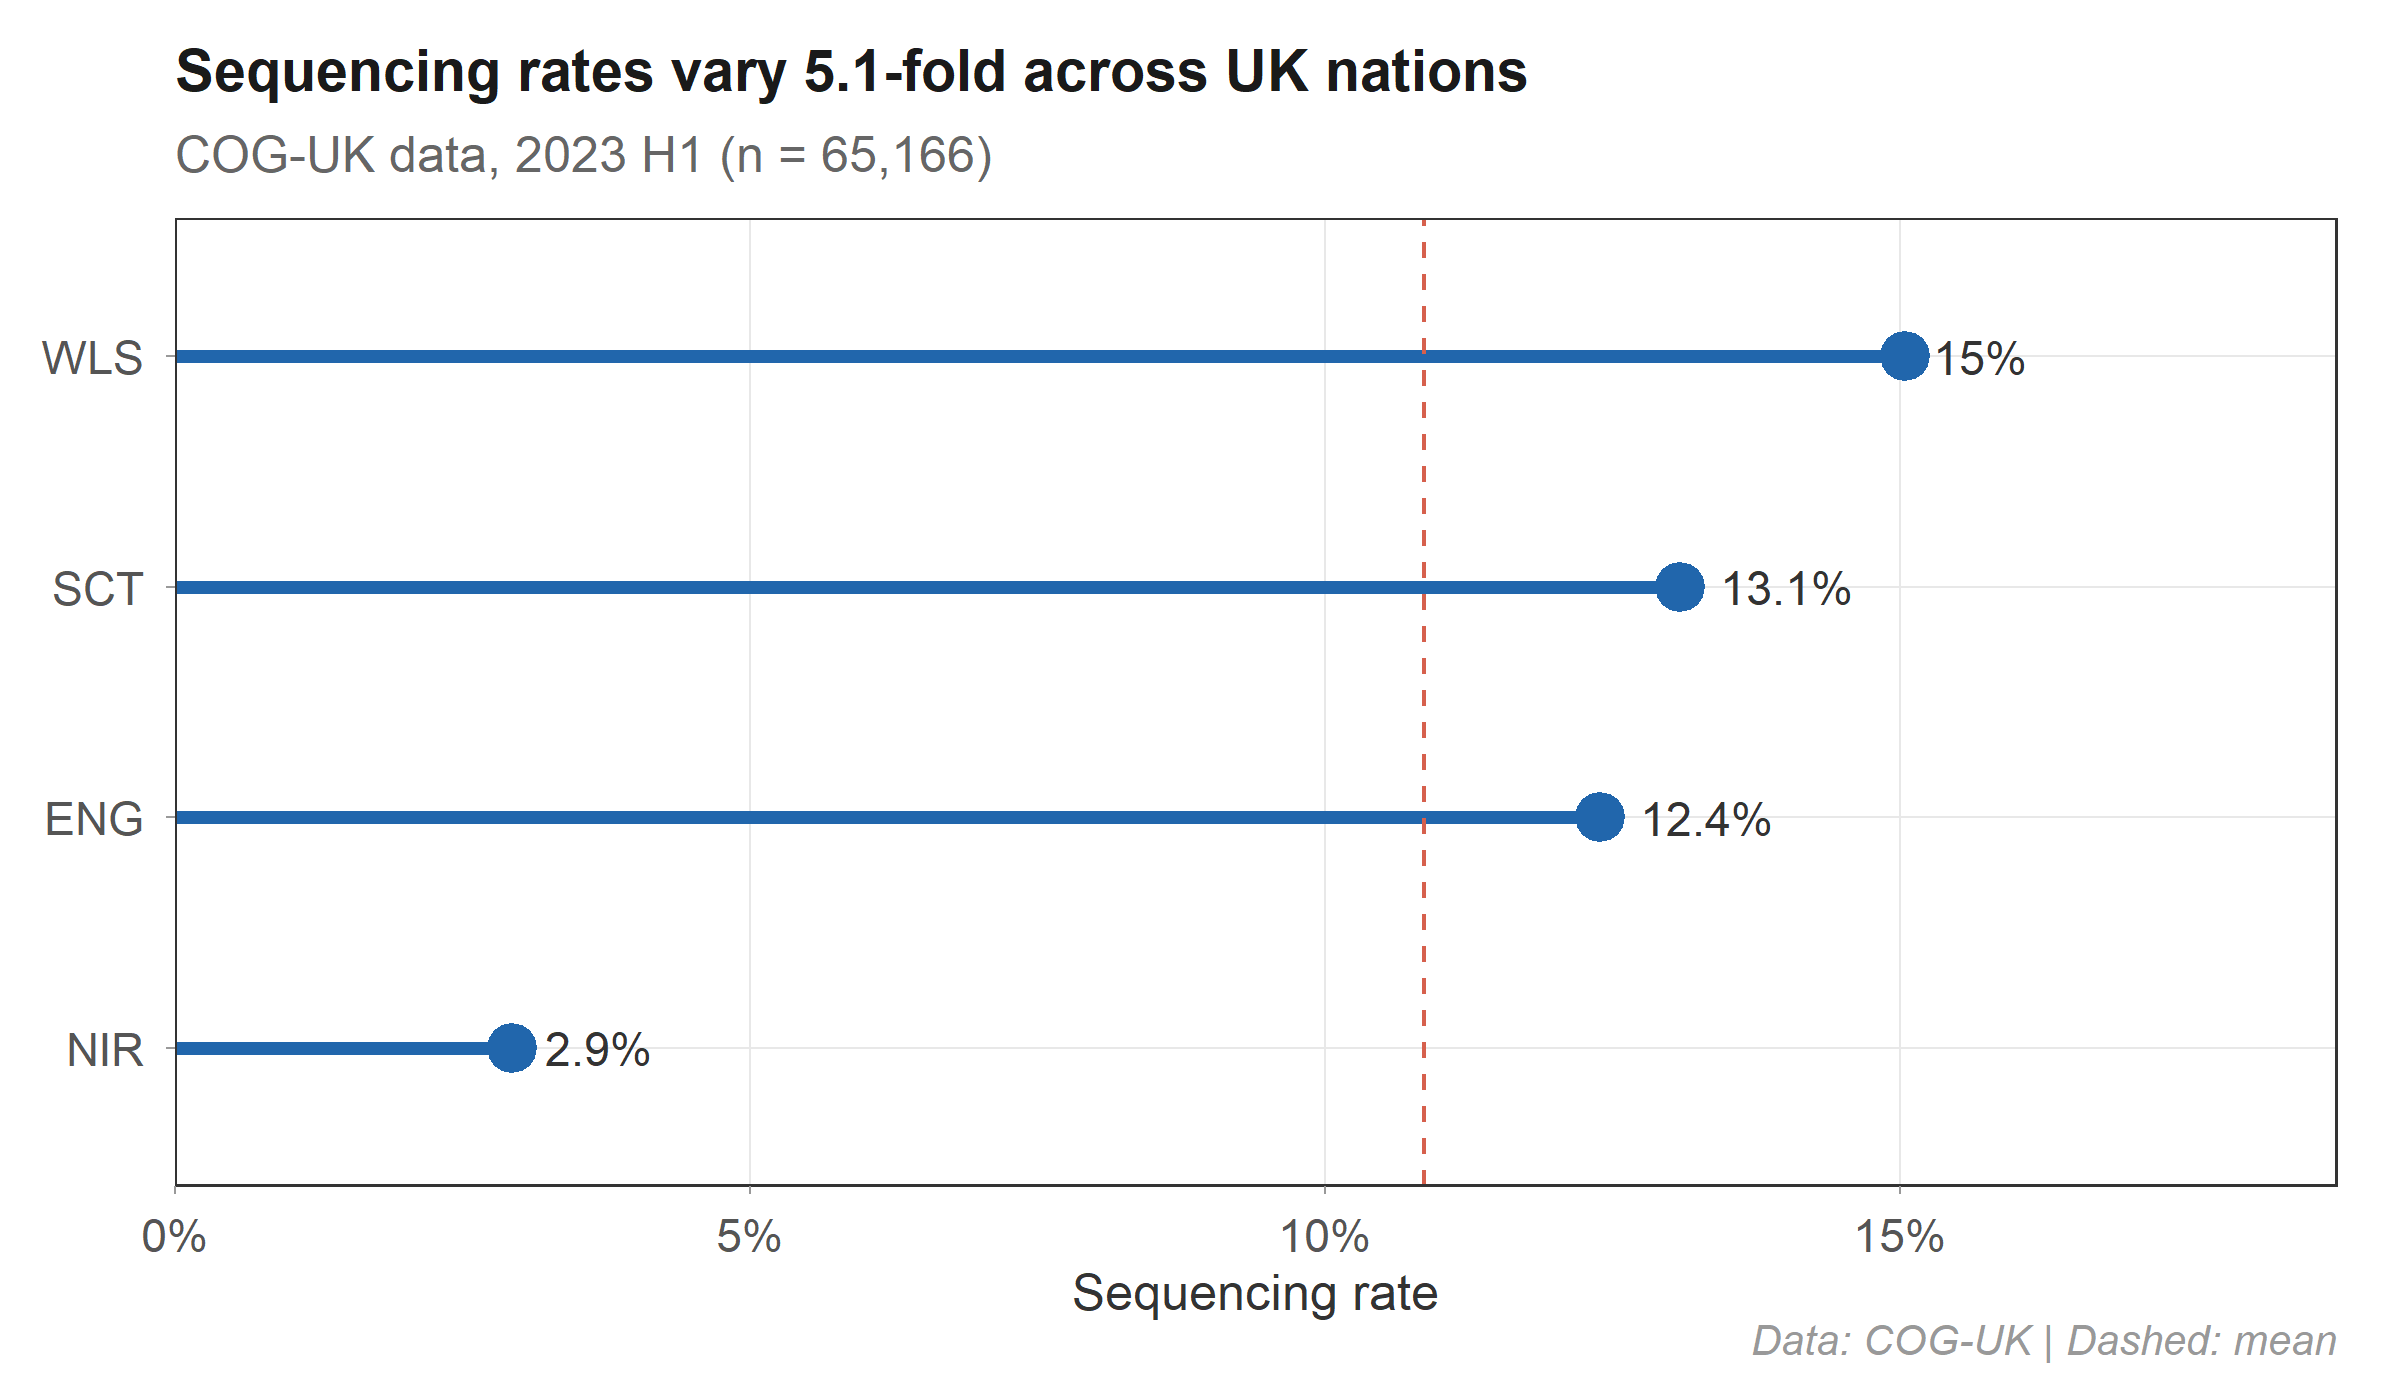
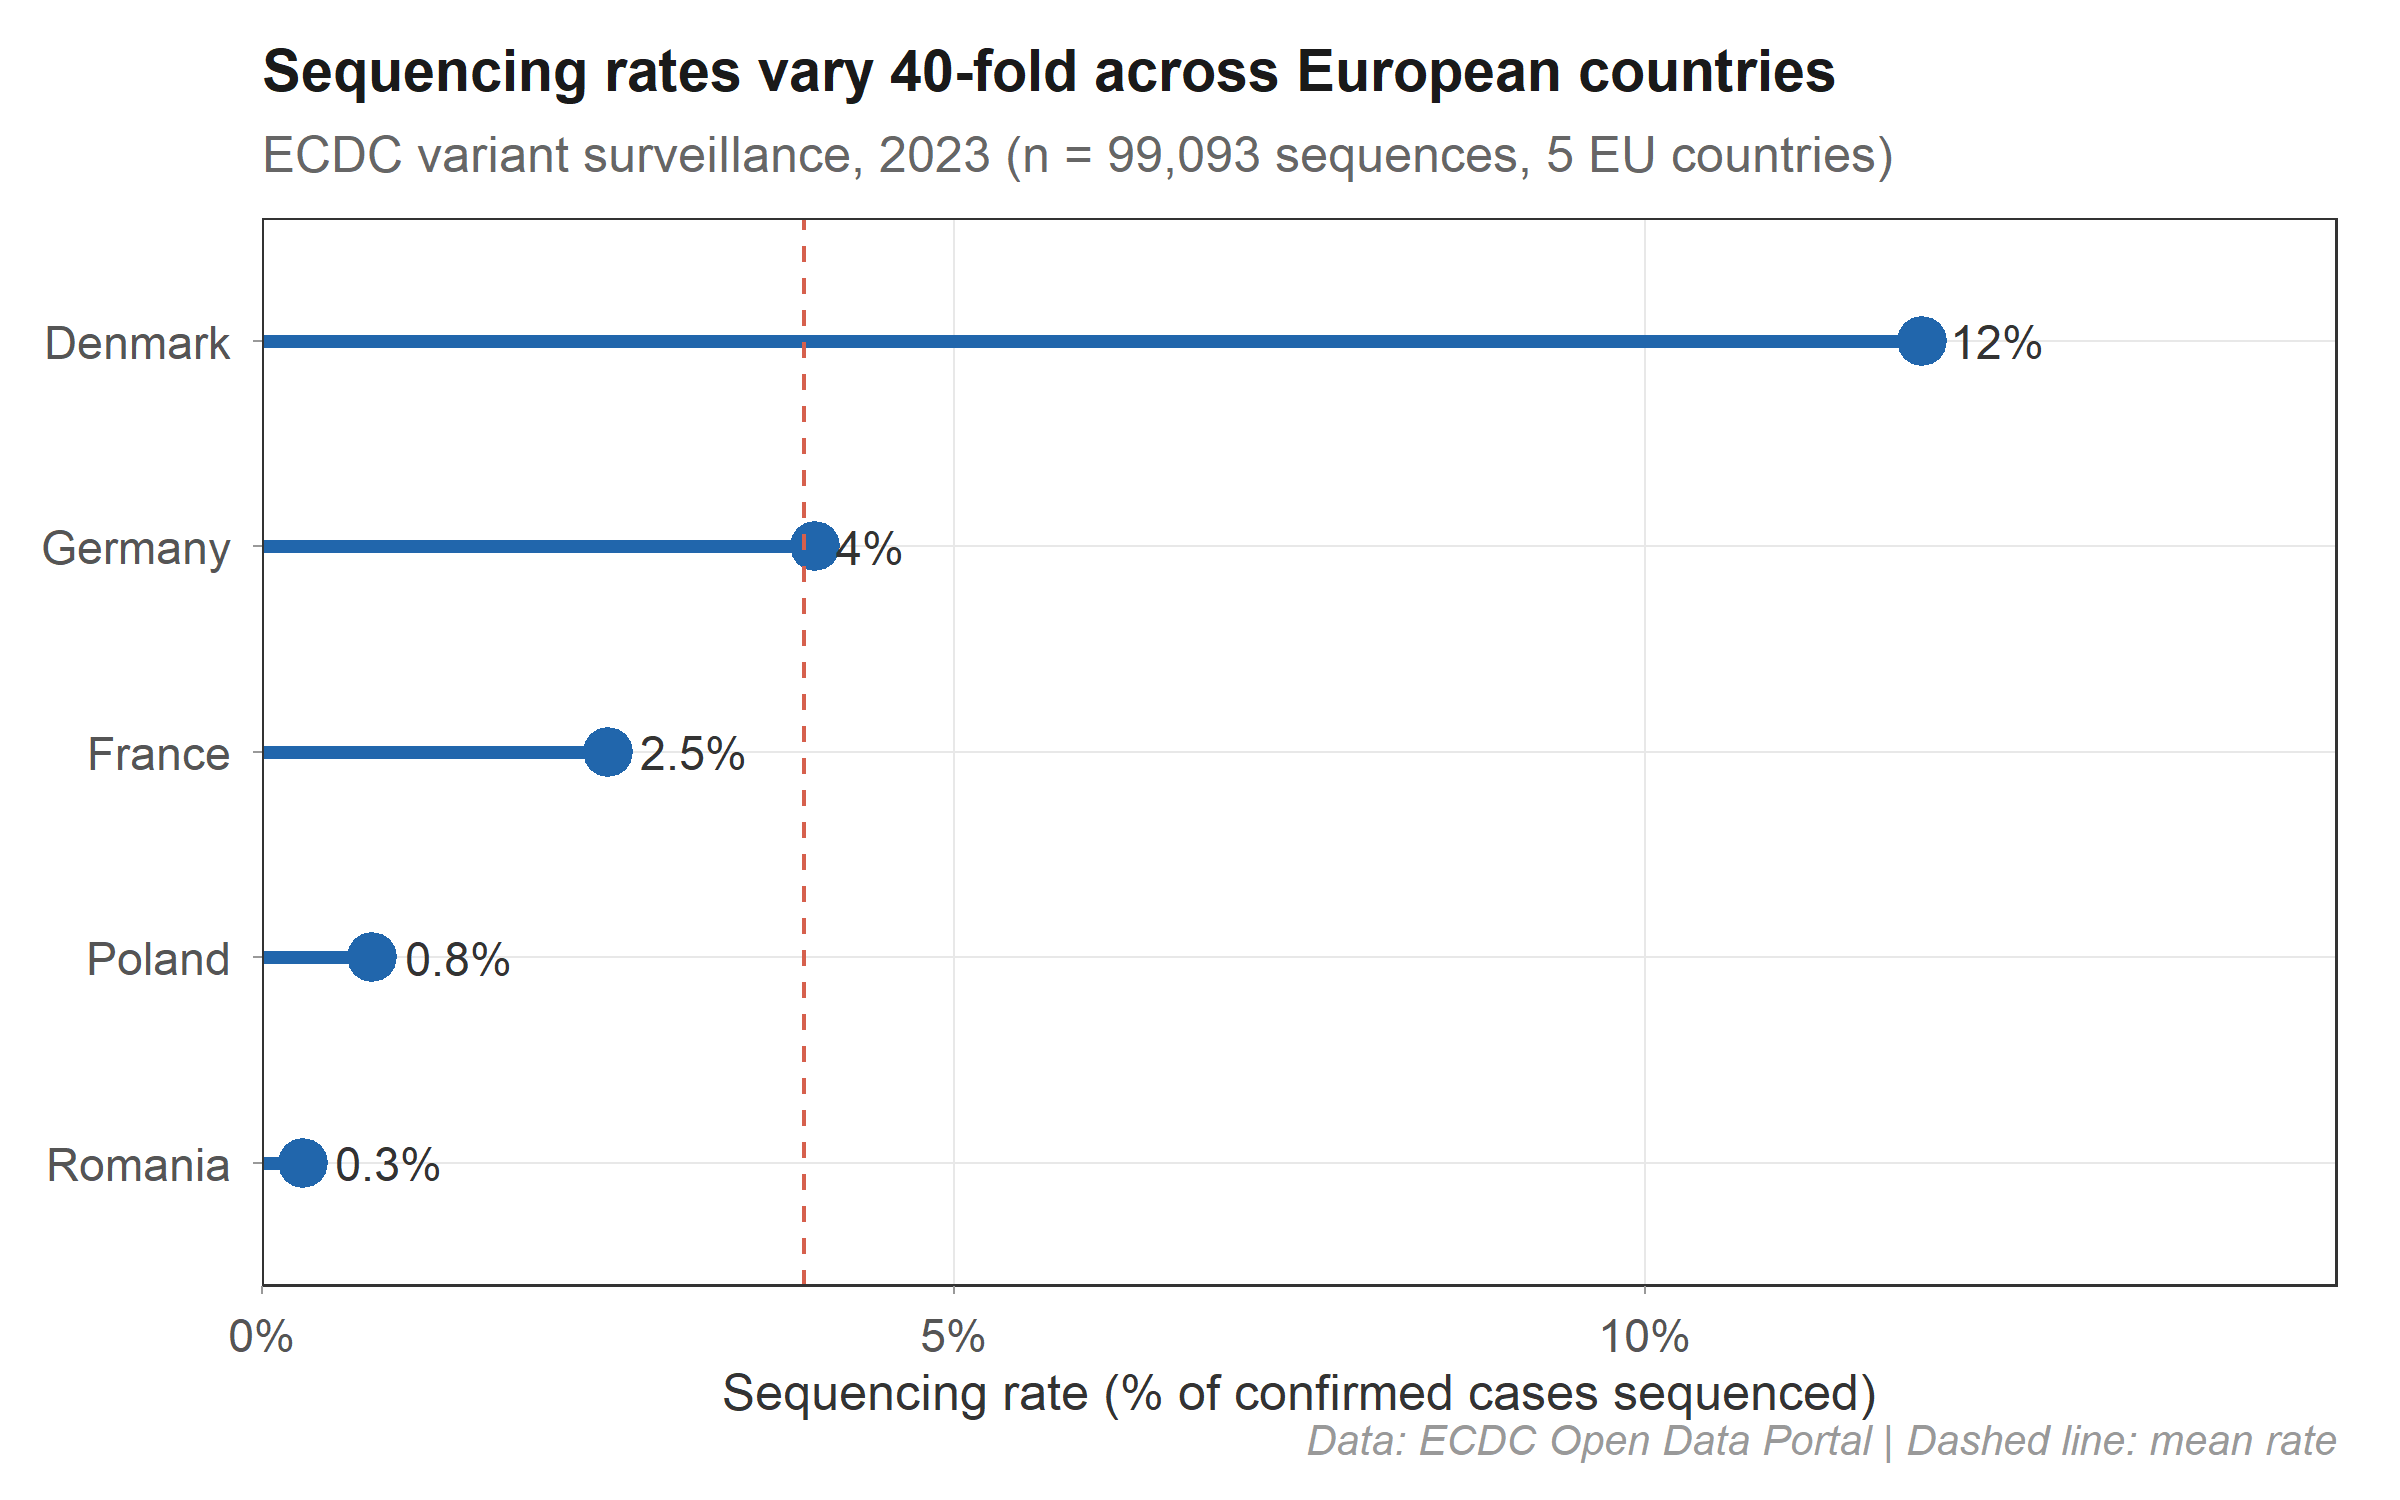
FIX fig1: ECDC 5-country 40x inequality (was COG-UK 5.1x)
Romania 0.3% to Denmark 12% — dramatically unequal.
Previous UK-only fig had 3 nations clustered at 12-15%, not compelling.

diff --git a/README.md b/README.md
@@ -56,17 +56,18 @@ In pathogen genomic surveillance, **sequencing rates vary up to 40-fold across r
 
 ---
 
-## Validated on real UK surveillance data
+## Validated on real surveillance data
 
-Figures 1–3, 5, 7 use **COG-UK individual-level sequence metadata** (4 UK nations, 26 epiweeks, n = 65,166 real sequences). Data source: [COG-UK CLIMB](https://cog-uk.s3.climb.ac.uk/). Figure 4 and 6 use controlled simulations.
+Figures use **ECDC variant surveillance data** (5 EU countries, n = 99,093) and **COG-UK individual-level metadata** (4 UK nations, n = 65,166). Data sources: [ECDC Open Data](https://opendata.ecdc.europa.eu/covid19/virusvariant/), [COG-UK CLIMB](https://cog-uk.s3.climb.ac.uk/).
 
 ### Figure 1 · Sequencing inequality across countries
+*Data: ECDC real data (5 EU countries, n = 99,093)*
 
 <p align="center">
 <img src="man/figures/fig1_inequality.png" width="85%" />
 </p>
 
-> **Observation:** Northern Ireland sequences at 2.9% vs Wales at 15.0% — a 5.1-fold ratio. While modest compared to cross-country comparisons (European rates vary 40×), even this level of inequality introduces measurable bias.
+> **Observation:** Romania sequences 0.3% of cases vs Denmark at 12% — a **40-fold ratio**. This level of inequality is the norm in global genomic surveillance, and it makes naive prevalence estimates systematically biased.
 
 ### Figure 2 · Design weighting corrects systematic bias
 *Data: COG-UK real sequences (n = 65,166)*
